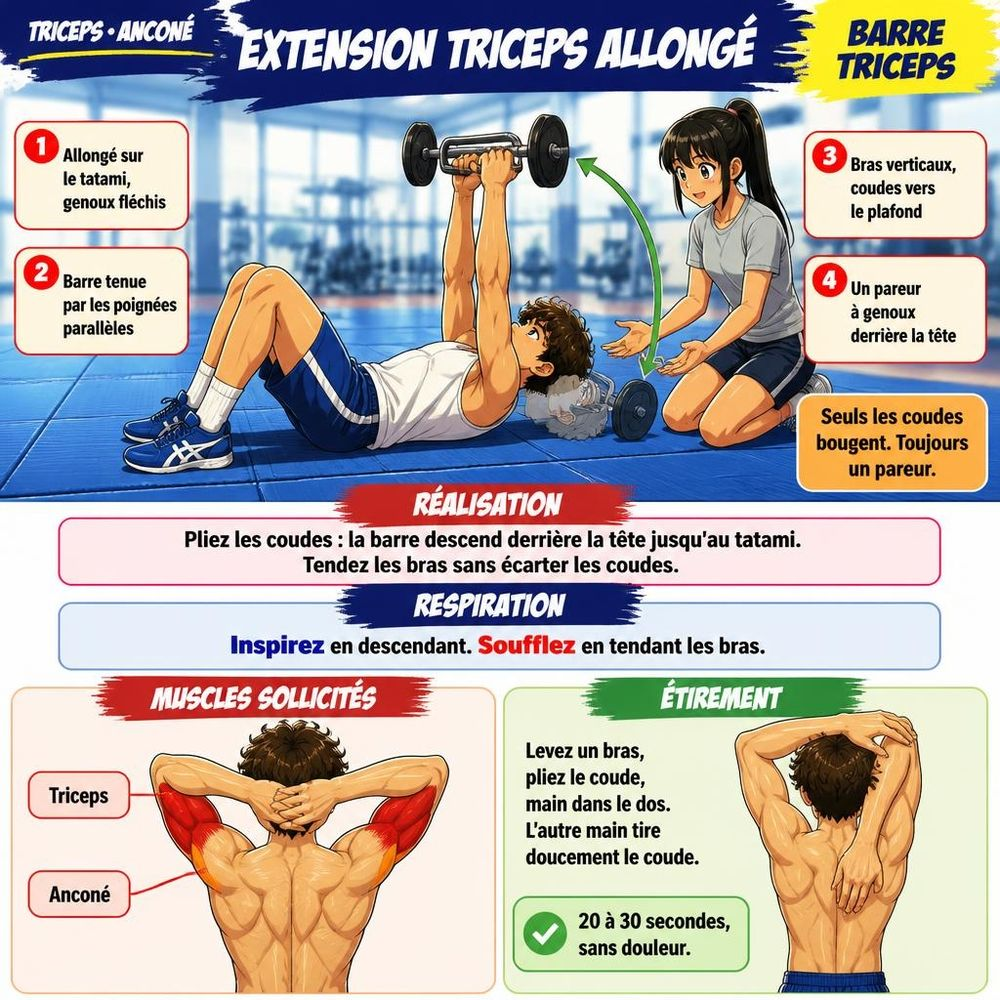
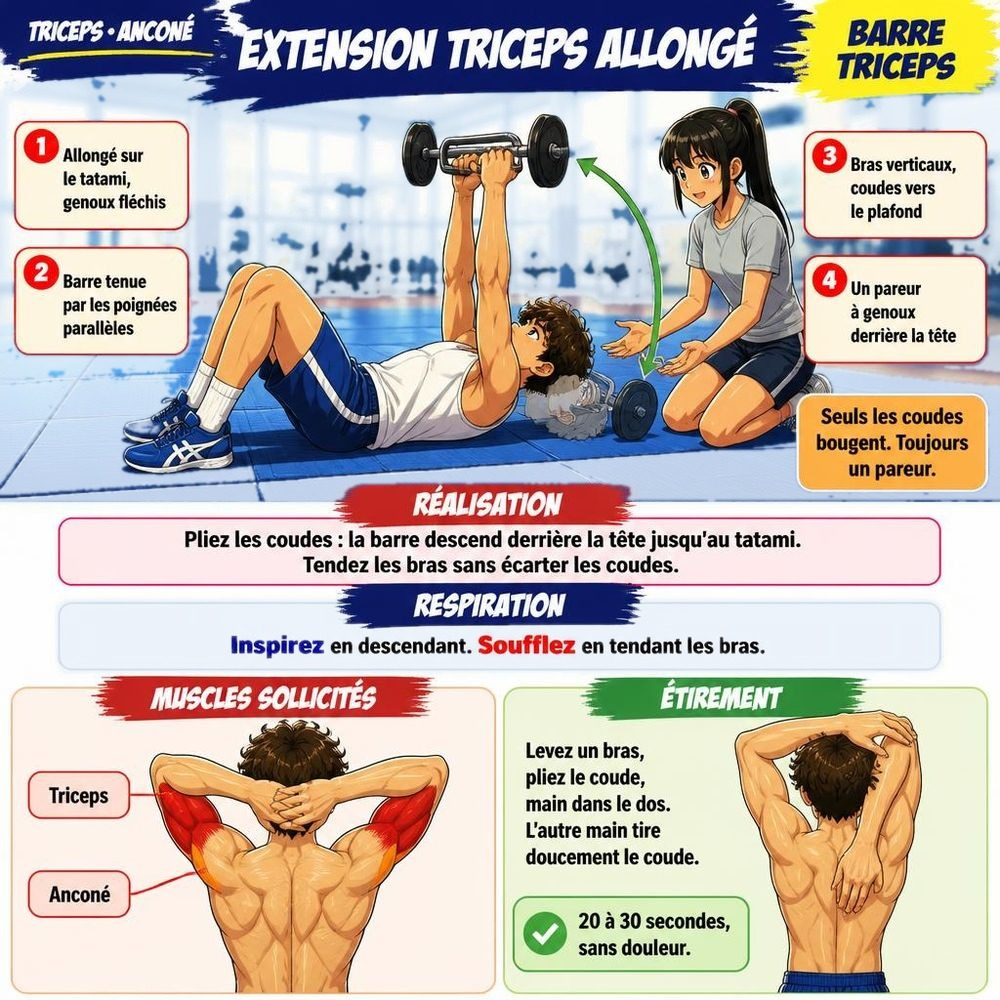
v6.17 : fiches illustrées des ateliers, fond bleu adouci (bleu très clair)
Claude-Session: https://claude.ai/code/session_01W45JVKhsKyRLHmFu85b94P

diff --git a/sw.js b/sw.js
@@ -1,6 +1,6 @@
 /* Hors ligne : l'appli est gardée sur le téléphone après la 1re ouverture.
    À chaque mise en ligne : augmenter VERSION (musculation-eleves-vN). */
-const VERSION='musculation-eleves-v6.16';
+const VERSION='musculation-eleves-v6.17';
 // Toutes les applis partagent le même stockage (même adresse github.io) : on n'efface QUE les anciennes versions de CETTE appli.
 const MES_CACHES=/^musculation-eleves-v\d+(?:\.\d+)?$/;
 const sous3s=p=>{p.catch(()=>{});return Promise.race([p,new Promise((_,non)=>setTimeout(()=>non(new Error('réseau lent')),3000))])};
